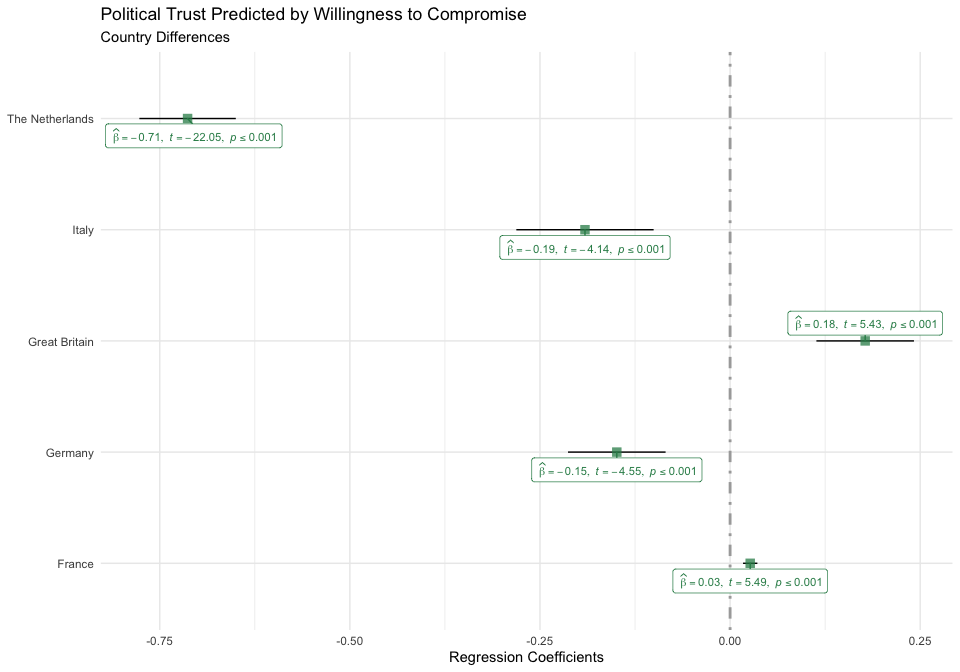
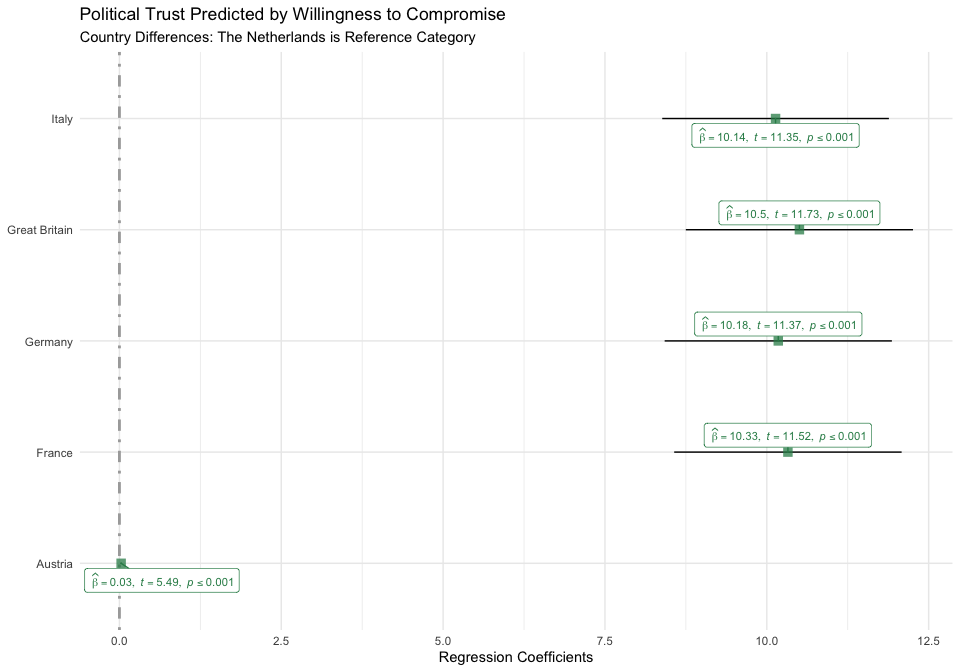
add robustness check

diff --git a/src/analysis/obervational_study.md b/src/analysis/obervational_study.md
@@ -31,7 +31,9 @@ analysis <- d %>%
          gov_performance, pid, gender, age, education, income, country,
          missing_trust, missing_wtac, missing_rile_selfplacement,
          missing_gov_performance, missing_pid, missing_gender, 
-         missing_age, missing_education, missing_income) 
+         missing_age, missing_education, missing_income) %>%
+  mutate(country = factor(country))
+analysis <- within(analysis, country <- relevel(country, ref = "The Netherlands"))
 m <- stats::lm(formula = trust ~ wtac + factor(political_interest) +
                   rile_selfplacement + factor(gov_performance) + 
                  factor(pid) + factor(gender) + age +
@@ -45,12 +47,14 @@ m <- stats::lm(formula = trust ~ wtac + factor(political_interest) +
 
 ![](obervational_study_files/figure-gfm/unnamed-chunk-3-1.png)<!-- -->
 
-The beta-coefficient of Willingness to Accept Compromise is negative and
+The beta-coefficient of Willingness to Accept Compromise is positive and
 statistically significant, as hypothesized in [our Pre-Analysis
-Plan](https://osf.io/h29j3). The coefficient of -0.15 is however a small
-effect. It indicates that when Willingness to Accept Compromise goes up
-by 1 – i.e. answering `rather yes` instead of `completely agree` with
-the statement *What people call compromise in politics is really just
+Plan](https://osf.io/h29j3). The coefficient of 0.15 is however a small
+effect. It indicates that the higher one’s willingness to accept
+compromise, the higher one’s trust in politicians. More precisely, it
+means that when Willingness to Accept Compromise goes up by 1 –
+i.e. answering `rather yes` instead of `completely agree` with the
+statement *What people call compromise in politics is really just
 selling out on one’s principles.* – the the level of trust in
 politicians goes up by 0.15. Trust in politicians is a five-point scale,
 where 1 indicates completely disagreeing with the statement *Most
@@ -59,11 +63,10 @@ the statement.
 
 Because we pooled the data of various countries, the graph below
 demonstrate the country differences. Austria is the reference category.
-This graph demonstrates that compared to Austria, the hypothesized
-relationship is strongest negatively in the Netherlands, and exactly
-around in Italy and Germany. The relationship between political trust
-and willingness to accept compromise in Great Britain and France is
-positive.
+This graph demonstrates that compared to the Netherlands, the
+hypothesized negative relationship between political trust and
+willingness to accept compromise is much stronger in France, Germany,
+Great Britain, and Italy, while it is similar in Austria.
 
 ![](obervational_study_files/figure-gfm/unnamed-chunk-4-1.png)<!-- -->
 
@@ -76,5 +79,14 @@ graph shows that only for the variables `age` and `trust` the imputed
 values elicit a different effect from the non-imputed ones.
 
 ![](obervational_study_files/figure-gfm/unnamed-chunk-5-1.png)<!-- -->
+
+The result show that particularly the imputed missing values for `trust`
+and `age` seem to elicit an effect in the regression results. To check
+the robustness of the analysis, we therefore have also ran the analysis
+excluding the observations where `trust` and `age` have been imputed. As
+the visualization below demonstrates, this does not change the
+coefficient of `willingness to accept compromise`.
+
+![](obervational_study_files/figure-gfm/unnamed-chunk-6-1.png)<!-- -->
 
 ### Exploratory

diff --git a/src/data-processing/data_preparations.md b/src/data-processing/data_preparations.md
@@ -79,7 +79,8 @@ d <- readRDS("../../data/raw-private/cses.rds") %>%
                          `2` = "Female"),
          education = recode(education, 
                             `96` = 0),
-         education = replace(education, which(education>96), NA),
+         education = replace(education, 
+                             which(education>96), NA),
          income = replace(income, which(income>96), NA),
          pid = replace(pid, which(pid>5), NA),
          pid = recode(pid,
@@ -106,8 +107,8 @@ d <- readRDS("../../data/raw-private/cses.rds") %>%
          satisfaction_democracy = recode(satisfaction_democracy,
                                      `1` = "Satisfied",
                                      `2` = "Satisfied",
-                                     `3` = "Not Satisfied",
-                                     `4` = "Not Satisfied"),
+                                     `4` = "Dissatisfied",
+                                     `5` = "Dissatisfied"),
          trust = replace(trust, which(trust>5), NA),
          trust = recode(trust,
                         `1` = 5,
@@ -234,8 +235,8 @@ nl <- readRDS("../../data/raw-private/dpes.RDS") %>%
          satisfaction_democracy = recode(satisfaction_democracy,
                                      `1` = "Satisfied",
                                      `2` = "Satisfied",
-                                     `3` = "Not Satisfied",
-                                     `4` = "Not Satisfied"),
+                                     `3` = "Dissatisfied",
+                                     `4` = "Dissatisfied"),
          elites_dont_care_people = as.factor(elites_dont_care_people),
          elites_dont_care_people = as.numeric(elites_dont_care_people),
          elites_are_main_problem = as.factor(elites_are_main_problem),
@@ -388,8 +389,8 @@ uk <- readRDS("../../data/raw-private/bes.RDS") %>%
          satisfaction_democracy = recode(satisfaction_democracy,
                                      `3` = "Satisfied",
                                      `4` = "Satisfied",
-                                     `5` = "Not Satisfied",
-                                     `6` = "Not Satisfied"),
+                                     `5` = "Dissatisfied",
+                                     `6` = "Dissatisfied"),
          elites_dont_care_people = as.numeric(elites_dont_care_people),
          elites_dont_care_people = replace(elites_dont_care_people,
                                            which(elites_dont_care_people<3), NA),
@@ -842,7 +843,6 @@ d <- aut %>%
   add_row(it) %>%
   add_row(nl) %>%
   add_row(uk)
-saveRDS(d, "../../data/intermediate/observational_data.RDS")
 rm(aut, de, fr, it, nl, uk, covar)
 ```
 
